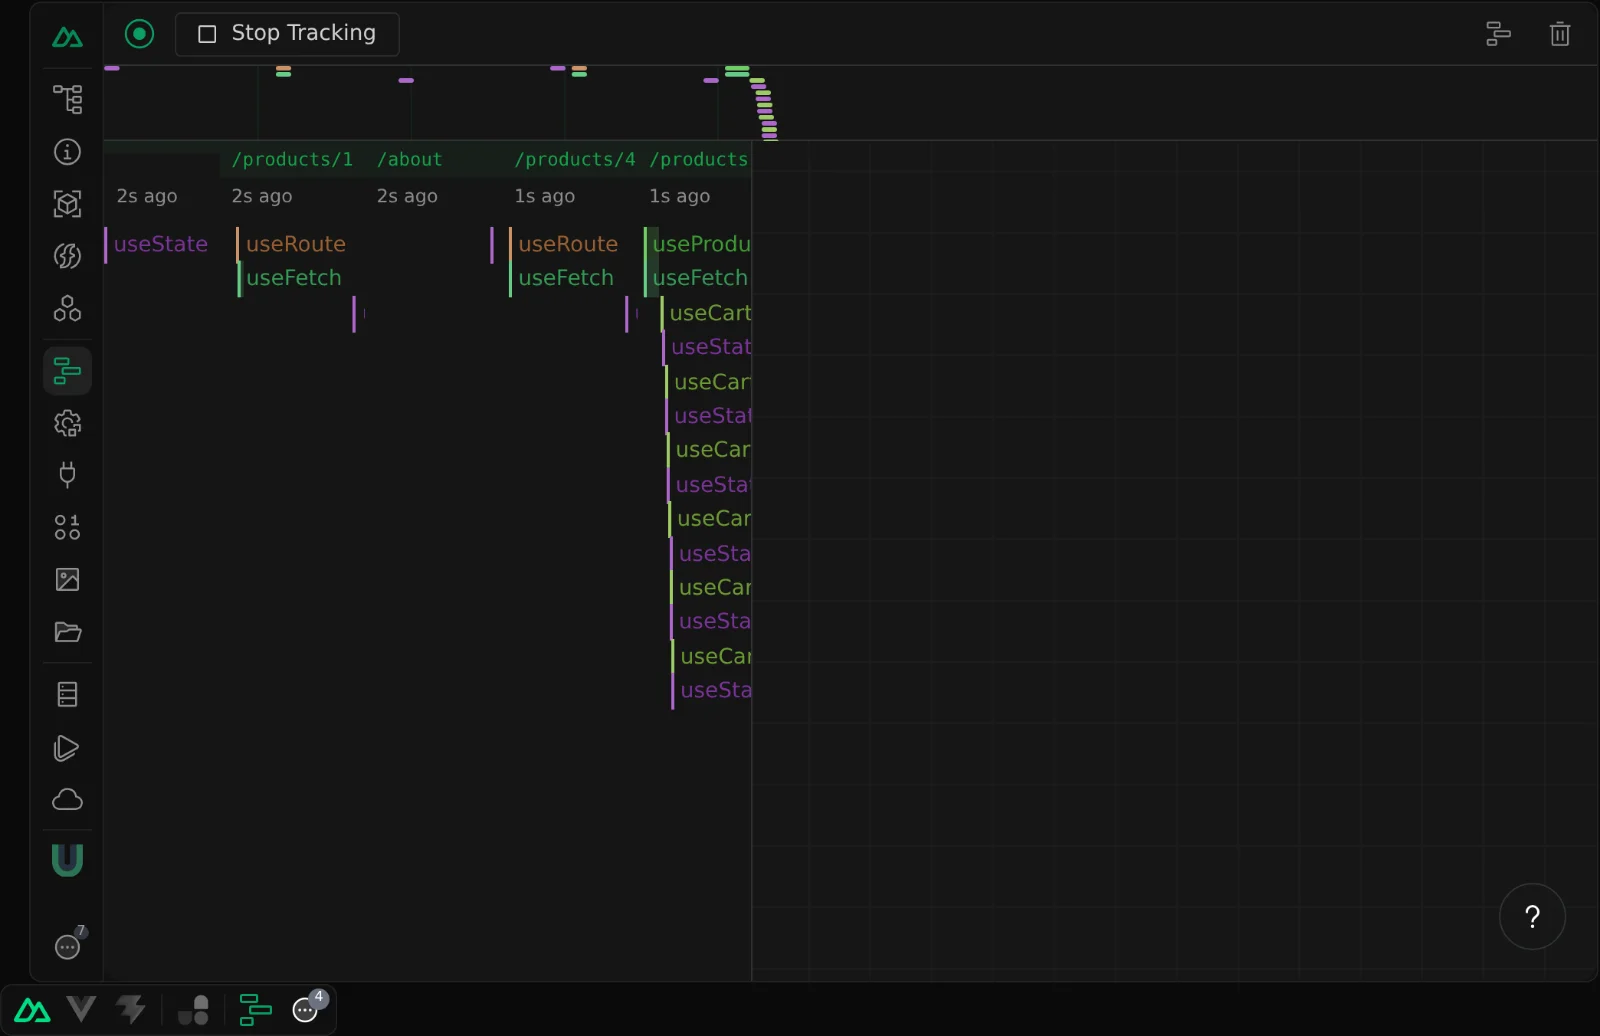
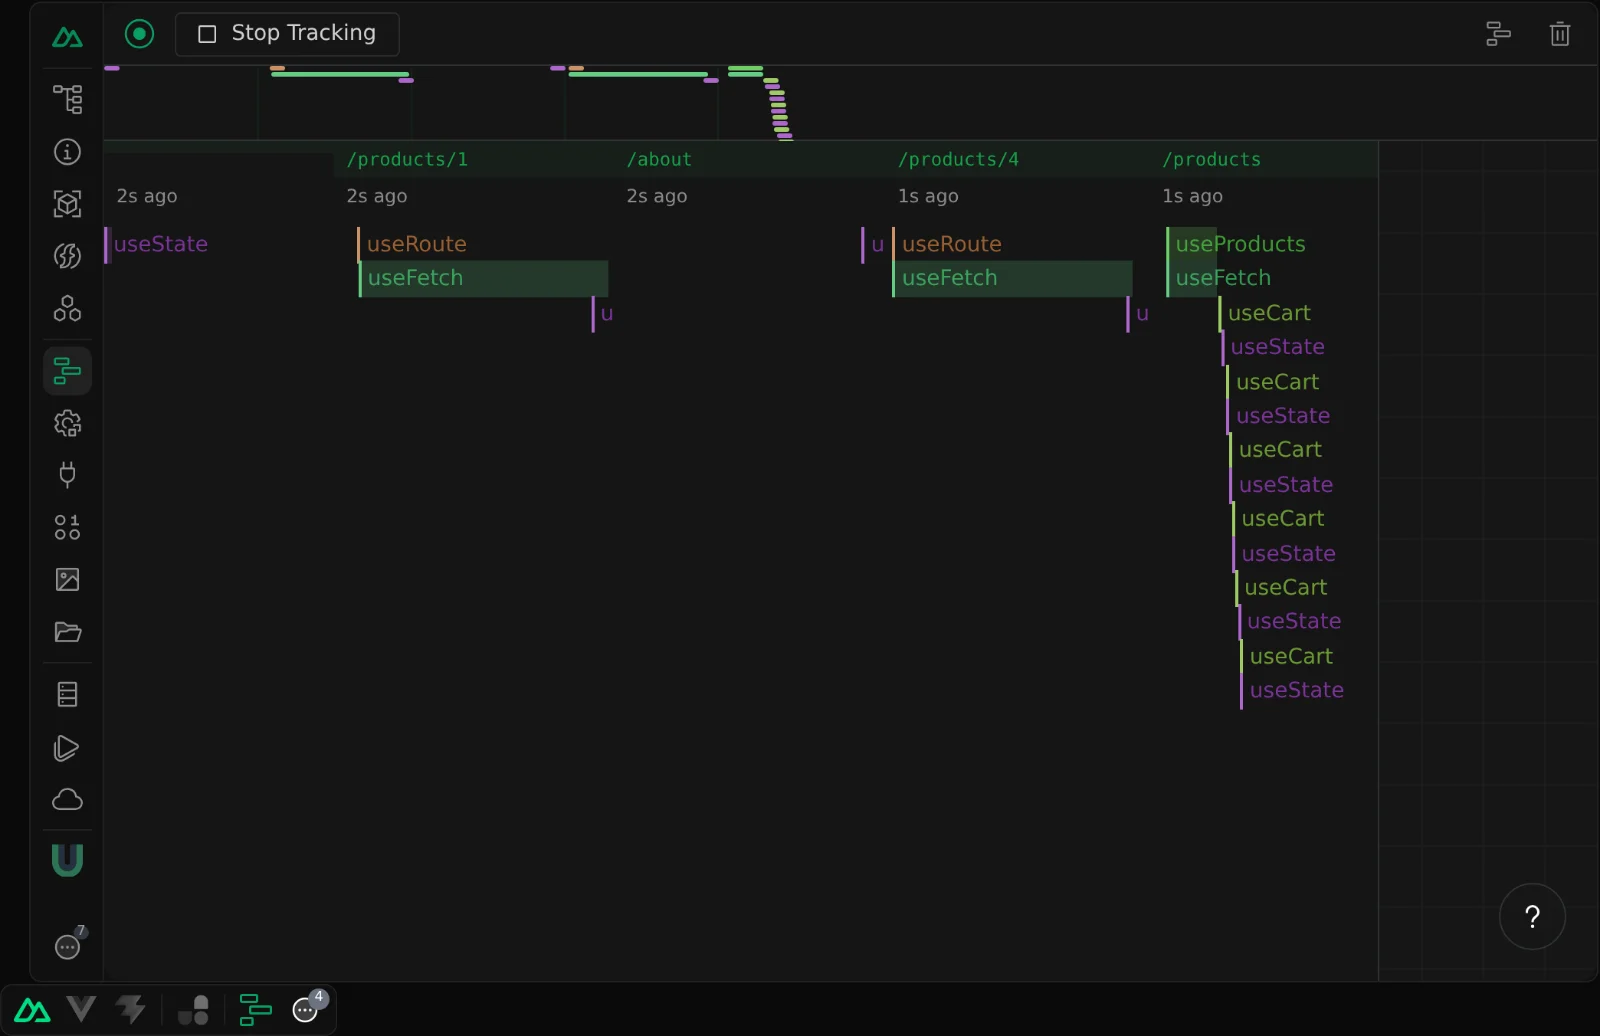
docs: widen the timeline screenshot
The product API now takes 600ms, so useFetch spans its route segment,
and the spec zooms the timeline in before capturing it. The segments
were at their 50px minimum, cutting off the function names.

Amp-Thread-ID: https://ampcode.com/threads/T-01a18296-d1f3-75e5-9fa1-f749b3e3f1fa

diff --git a/playgrounds/docs/server/api/products/[id].get.ts b/playgrounds/docs/server/api/products/[id].get.ts
@@ -1,7 +1,10 @@
 import { defineHandler, getRouterParam, HTTPError } from 'nitro/h3'
 import { products } from '../../utils/products'
 
-export default defineHandler((event) => {
+export default defineHandler(async (event) => {
+  // A warehouse lookup, slow enough for the Timeline tab to show the request.
+  await new Promise(resolve => setTimeout(resolve, 600))
+
   const id = Number(getRouterParam(event, 'id'))
   const product = products.find(product => product.id === id)
   if (!product)

diff --git a/tests/docs-screenshots/screenshots.spec.ts b/tests/docs-screenshots/screenshots.spec.ts
@@ -83,6 +83,8 @@ const SHOTS: Shot[] = [
       for (const tab of ['/modules/overview', '/modules/timeline'])
         await page.evaluate(tab => (globalThis as any).__NUXT_DEVTOOLS_HOST__.devtools.navigate(tab), tab)
       await expect(frame.locator('body')).toContainText('/products/4')
+      // Zoom in (Alt + wheel) so the function names fit their segments.
+      await frame.locator('[of-x-scroll][n-panel-grids]').dispatchEvent('wheel', { deltaY: 300, altKey: true })
     },
   },
   {
